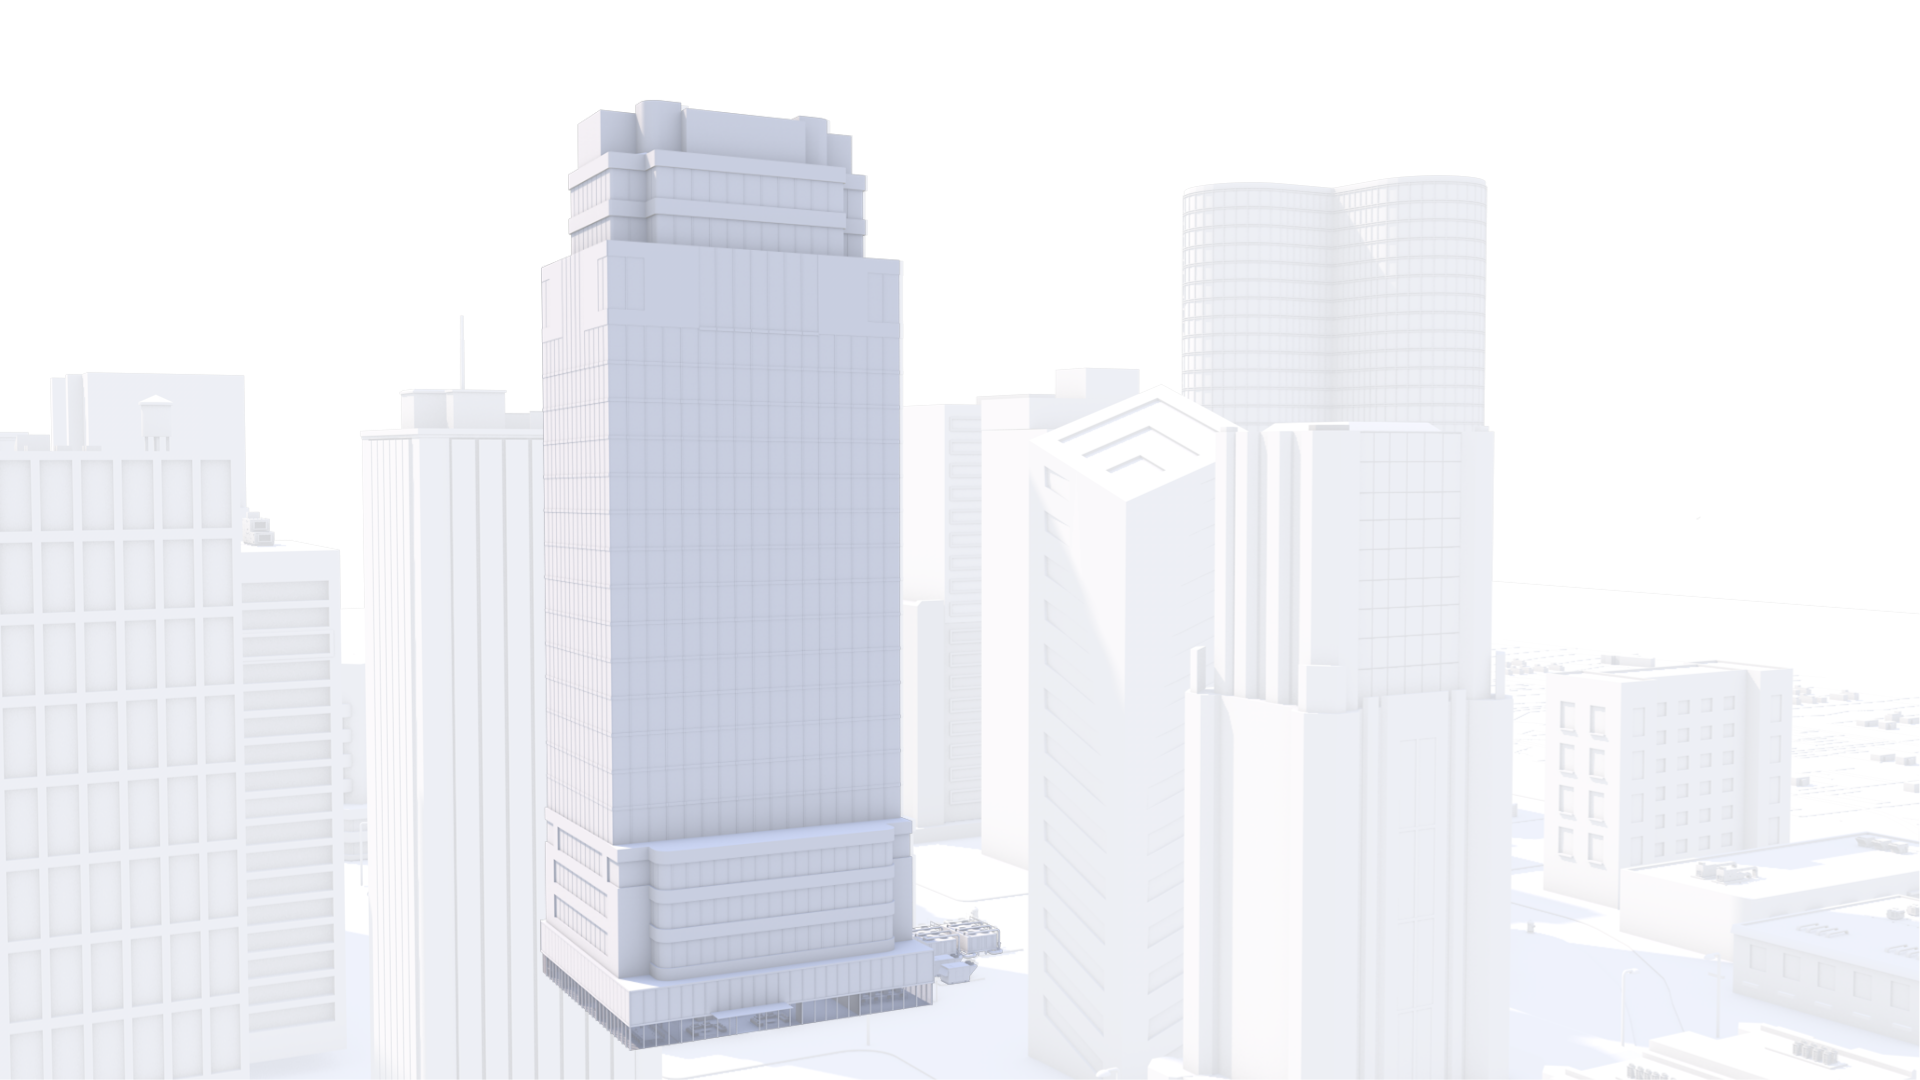
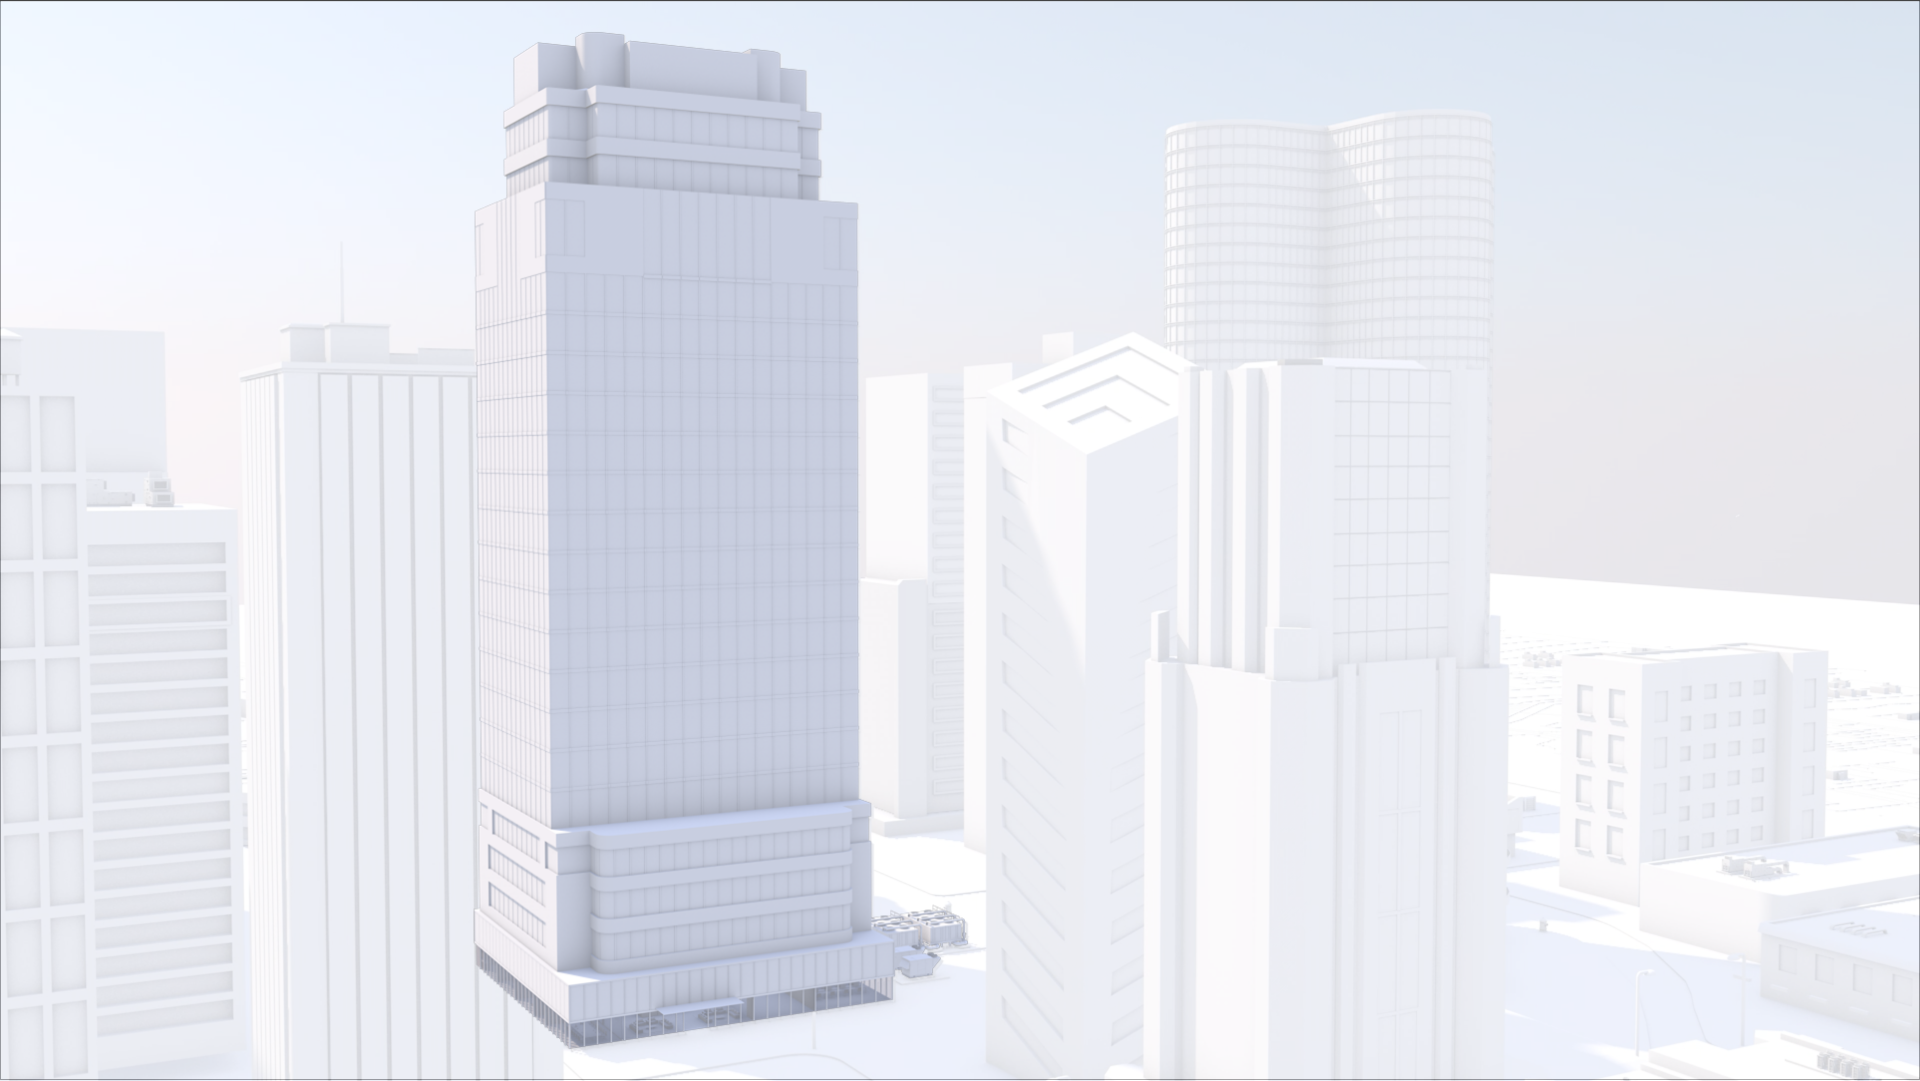
faded large build

diff --git a/src/app/app.component.ts b/src/app/app.component.ts
@@ -179,8 +179,7 @@ export class AppComponent implements AfterViewInit {
     showHotspot: false,
     showCard: false,
     showImageDiv: false,
-    showTransitionedImage: false,
-    showImageBack: false //for faded build-lg
+    showTransitionedImage: false
   }
 
   tabs = {
@@ -243,7 +242,6 @@ export class AppComponent implements AfterViewInit {
     }
     // console.log('view: ', view);
     this.videoPlayer.pause();
-    this.showHotspotView();
 
     switch (view.viewType) {
       case ViewType.image:
@@ -251,12 +249,13 @@ export class AppComponent implements AfterViewInit {
         this.renderCard(view.hotspots);
         break;
       case ViewType.video:
+        this.showHotspotView();
         this.renderHotspots(view.hotspots);
         break;
     }
   }
   renderCard(hotspots: Hotspot[]) {
-    this.showCardView();
+    this.showCardView(2500);
   }
   onHotspotClick(hotspot: Hotspot) {
     console.log(hotspot);
@@ -287,11 +286,12 @@ export class AppComponent implements AfterViewInit {
   }
   renderImage(hotspots: Hotspot[]) {
     console.log('imageDiv', this.imageDiv);
+
     this.showImageView();
-    // this.showImageBack();
     setTimeout(() => {
+      this.showHotspotView();
       this.renderHotspots(hotspots);
-    }, 100)
+    }, 1500)
   }
   renderTransitionedImage() {
     this.hideHotspotView();
@@ -303,7 +303,7 @@ export class AppComponent implements AfterViewInit {
   }
   deRenderTransitionedImage() {
     this.showHotspotView();
-    this.showCardView();
+    this.showCardView(100);
     this.coloredImageEle.nativeElement.classList.remove('show'); //for smooth coloring on back
   }
   playHotspotVideo(hotspot: Hotspot) {
@@ -336,10 +336,10 @@ export class AppComponent implements AfterViewInit {
       this.activeTabList = this.tabs.tab3.list;
     }
   }
-  showCardView() {
+  showCardView(delay: number) {
     setTimeout(() => {
       this.viewToggle.showCard = true;
-    }, 800)
+    }, delay)
   }
   hideCardView() {
     this.viewToggle.showCard = false;
@@ -355,11 +355,5 @@ export class AppComponent implements AfterViewInit {
   }
   showImageView() {
     this.viewToggle.showImageDiv = true;
-  }
-  showImageBack() {
-    this.viewToggle.showImageBack = true;
-  }
-  hideImageBack() {
-    this.viewToggle.showImageBack = false;
   }
 }

diff --git a/src/app/app.component.html b/src/app/app.component.html
@@ -33,15 +33,11 @@
           </div>
         </ng-container>
       </div>
-<!-- <div [class.show]="viewToggle.showImageDiv" class="step pos-abs h-w-100">
-  <img class="pos-abs h-w-100" src="./../assets/lg-build-faded.png" />
-</div> -->
+
       <div [class.show]="viewToggle.showImageDiv" class="step h-w-100">
         <div id="zt-container" class="zt-container">
           <div class="zt-item" data-id="zt-item-1">
-            <img class="zt-current" src="./../assets/lg-build.png" />
-            <!-- <div (click)="renderTransitionedImage()" class="zt-tag" data-dir="1" data-link="zt-item-2" data-zoom="5"
-                                                                                                                                                                                                                                                                                                                                                                                      data-speed="800" data-delay="0" style="top: 787px;left: 900px;"></div> -->
+            <img class="zt-current" src="./../assets/lg-build-faded.png" />
             <div (click)="renderTransitionedImage()" class="zt-tag" data-dir="1" data-link="zt-item-2" data-zoom="5"
               data-speed="800" data-delay="0" style="
               top: 793px;
